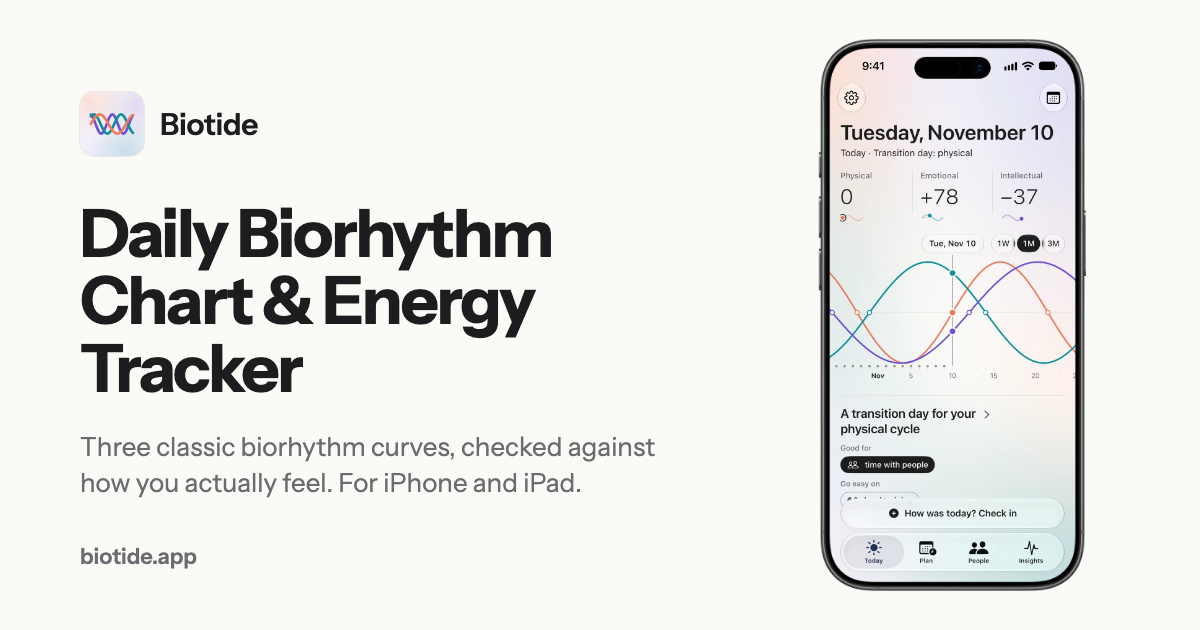
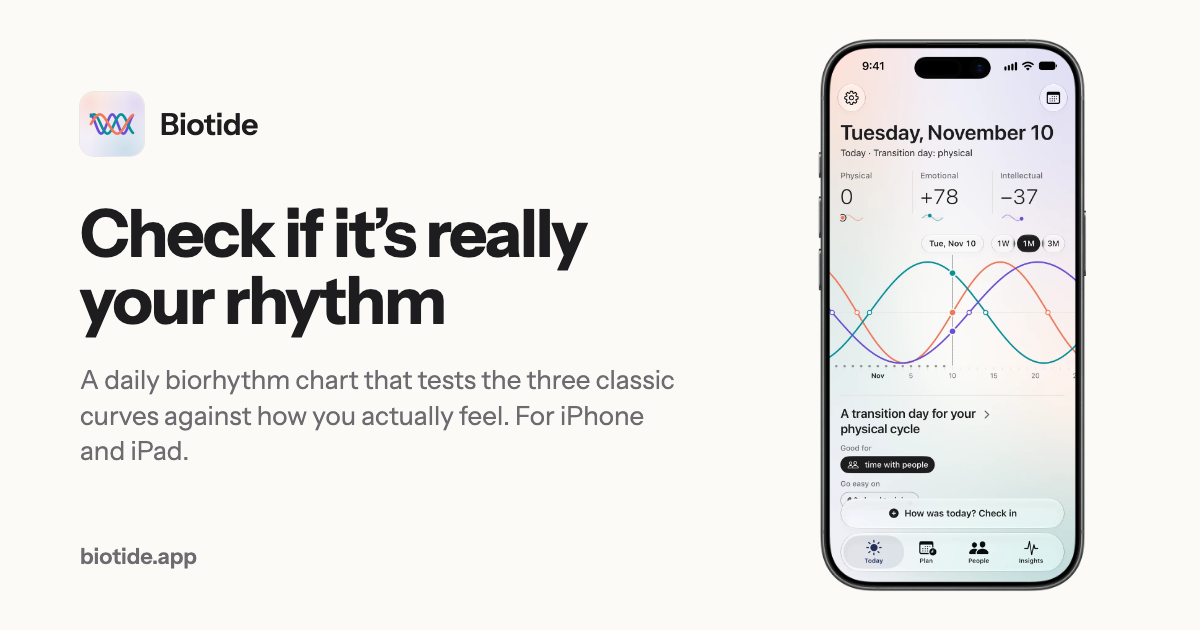
Lead with the check-in test: headline, the difference, FAQ
The hero says what sets Biotide apart (the curves tested against your evening check-ins), with the keyword line kept inside the H1; a short section after the hero, the fit first among the features, a FAQ on how it differs, and the social card re-rendered with the new headline.

Changed region(s): [[0.0617, 0.3317, 0.555, 0.7841]]

diff --git a/index.html b/index.html
@@ -8,7 +8,7 @@
     <meta name="theme-color" content="#0f1217" media="(prefers-color-scheme: dark)">
     <link rel="preload" href="fonts/instrument-sans-latin.woff2" as="font" type="font/woff2" crossorigin>
     <link rel="stylesheet" href="themes/default.css?v=2">
-    <link rel="stylesheet" href="styles.css?v=2">
+    <link rel="stylesheet" href="styles.css?v=3">
     <link rel="stylesheet" href="scrollcraft.css?v=1">
     <link rel="stylesheet" href="landing.css?v=1">
     <!-- Title: under 60 characters, brand + what it is + platform. Add "Official Site" only if other products share the name. -->
@@ -29,7 +29,7 @@
     <meta property="og:image" content="https://biotide.app/images/og-image.png">
     <meta property="og:image:width" content="1200">
     <meta property="og:image:height" content="630">
-    <meta property="og:image:alt" content="Biotide's icon and the headline Daily Biorhythm Chart & Energy Tracker beside an iPhone showing the app's Today screen">
+    <meta property="og:image:alt" content="Biotide's icon and the headline Check if it's really your rhythm beside an iPhone showing the app's Today screen">
     <meta property="og:site_name" content="Biotide">
     <meta property="og:locale" content="en_US">
 
@@ -38,7 +38,7 @@
     <meta name="twitter:title" content="Biotide: Daily Biorhythm Chart & Energy Tracker">
     <meta name="twitter:description" content="A daily biorhythm chart and energy tracker for iPhone and iPad that tests the three cycles against how you feel, with compatibility and best days.">
     <meta name="twitter:image" content="https://biotide.app/images/og-image.png">
-    <meta name="twitter:image:alt" content="Biotide's icon and the headline Daily Biorhythm Chart & Energy Tracker beside an iPhone showing the app's Today screen">
+    <meta name="twitter:image:alt" content="Biotide's icon and the headline Check if it's really your rhythm beside an iPhone showing the app's Today screen">
 
     <!-- Apple Smart App Banner (Safari on iOS shows a native install banner). Remove for a non-App-Store product. -->
     <meta name="apple-itunes-app" content="app-id=6829585627">
@@ -189,6 +189,14 @@
                     },
                     {
                         "@type": "Question",
+                        "name": "How is Biotide different from other biorhythm apps?",
+                        "acceptedAnswer": {
+                            "@type": "Answer",
+                            "text": "Most biorhythm apps draw the curves and tell you how your day will go. Biotide also asks you, with a thirty-second evening check-in of energy, mood, focus and sleep. After 14 check-ins it shows how often each curve matched how you felt, and a curve that doesn't fit you counts for less in your readings and plans, or drops out entirely."
+                        }
+                    },
+                    {
+                        "@type": "Question",
                         "name": "What are critical days in a biorhythm?",
                         "acceptedAnswer": {
                             "@type": "Answer",
@@ -310,8 +318,10 @@
     <section class="hero" aria-labelledby="hero-title">
         <div class="wrap hero-grid">
             <div class="hero-copy">
-                <h1 id="hero-title">Daily Biorhythm Chart &amp; Energy Tracker</h1>
-                <p class="lead">Biotide is a daily biorhythm chart and energy tracker for iPhone and iPad. It draws your three cycles from your birth date, then checks them against how you actually feel, and finds good days for what is coming up, alone or with the people around you.</p>
+                <!-- The keyword line is part of the H1 on purpose: search reads "daily biorhythm chart & energy
+                     tracker" in the main heading, people read the promise. -->
+                <h1 id="hero-title"><span class="hero-kicker">Daily biorhythm chart &amp; energy tracker</span> Check if it&rsquo;s really your rhythm</h1>
+                <p class="lead">Biotide draws your three biorhythm cycles from your birth date, then tests them on you. A thirty-second check-in each evening shows which curves match how you actually feel, and only the ones that fit shape your readings and your best days. For iPhone and iPad.</p>
                 <div class="hero-actions">
                     <a href="https://apps.apple.com/app/id6829585627" class="app-store-badge" aria-label="Download Biotide on the App Store" data-cta="hero"><img src="images/download-on-the-app-store.svg" alt="Download Biotide on the App Store" width="156" height="52"></a>
                     <a class="text-link" href="#how">See how it works</a>
@@ -335,18 +345,28 @@
         </div>
     </section>
 
+    <!-- THE DIFFERENCE: the one thing no other biorhythm app does, stated before the feature list. -->
+    <section class="section" id="different">
+        <div class="wrap">
+            <div class="section-head">
+                <h2>Most biorhythm apps tell you. Biotide asks you.</h2>
+                <p class="lead">The three curves are the theory&rsquo;s guess. Your evening check-ins are the test: energy, mood, focus and sleep, each from 1 to 5. After 14 check-ins Biotide shows how often each curve matched how you felt. A curve that fits keeps its say; one that doesn&rsquo;t counts for less in your readings and plans, and can drop out entirely. With Plus, your sleep and heart signals from Apple Health join the test.</p>
+            </div>
+        </div>
+    </section>
+
     <!-- FEATURES as a definition list: term = the feature, definition = what it does for the user. -->
     <section class="section" id="features">
         <div class="wrap">
             <div class="section-head">
                 <h2>What is in the app</h2>
-                <p>The classic biorhythm calculator and chart, plus the part most biorhythm apps leave out: checking the curves against you.</p>
+                <p>The classic biorhythm calculator and chart, checked against you every evening.</p>
             </div>
             <dl class="methods">
+                <div><dt>Is it really your rhythm?</dt><dd>After 14 check-ins Biotide shows how often each curve matched how you felt. A curve that doesn&rsquo;t fit you counts for less in your readings and plans, and can drop out entirely.</dd></div>
                 <div><dt>Daily biorhythm chart</dt><dd>Physical, emotional and intellectual values for any day, worked out from your birth date. Drag the chart back or forward in time, from a week to three months at a glance.</dd></div>
                 <div><dt>Your day in words</dt><dd>A short reading of what to lean into and what to go easy on, with transition days, the classic &ldquo;critical days&rdquo;, marked before they arrive.</dd></div>
                 <div><dt>Thirty-second check-in</dt><dd>Rate your energy, mood, focus and last night&rsquo;s sleep from 1 to 5 each evening. A gentle reminder helps, and skips the days you have already logged.</dd></div>
-                <div><dt>Do the curves fit you?</dt><dd>After 14 check-ins Biotide shows how often each curve matched how you felt. A curve that doesn&rsquo;t fit you counts for less in your readings and plans, and can drop out entirely.</dd></div>
                 <div><dt>Prime days</dt><dd>Pick what is coming, from an exam or a job interview to a date, a race or an important conversation, and get the best days in the next 30, 60 or 90 days. Already have a date? See how it looks and whether a nearby day is better.</dd></div>
                 <div><dt>Biorhythm compatibility</dt><dd>Add people by birthday or bring them in from Contacts. See how your cycles line up as a match percentage, day by day, with the next good day to talk.</dd></div>
                 <div><dt>Apple Health, with Plus</dt><dd>Sleep, heart rate variability, resting heart rate and breathing rate, compared with your own usual, never with norms. Read only, and it never leaves your device.</dd></div>
@@ -535,6 +555,10 @@
                 <details class="faq-item">
                     <summary>What is a biorhythm?</summary>
                     <p>A biorhythm is one of three cycles that, according to a theory popular since the 1970s, start on the day you were born: physical over 23 days, emotional over 28 days and intellectual over 33 days. Biotide works out all three from your birth date and draws them as a daily biorhythm chart.</p>
+                </details>
+                <details class="faq-item">
+                    <summary>How is Biotide different from other biorhythm apps?</summary>
+                    <p>Most biorhythm apps draw the curves and tell you how your day will go. Biotide also asks you, with a thirty-second evening check-in of energy, mood, focus and sleep. After 14 check-ins it shows how often each curve matched how you felt, and a curve that doesn&rsquo;t fit you counts for less in your readings and plans, or drops out entirely.</p>
                 </details>
                 <details class="faq-item">
                     <summary>What are critical days in a biorhythm?</summary>

diff --git a/privacy.html b/privacy.html
@@ -10,7 +10,7 @@
     <meta name="robots" content="index, follow">
     <link rel="preload" href="fonts/instrument-sans-latin.woff2" as="font" type="font/woff2" crossorigin>
     <link rel="stylesheet" href="themes/default.css?v=2">
-    <link rel="stylesheet" href="styles.css?v=2">
+    <link rel="stylesheet" href="styles.css?v=3">
     <script>try{document.documentElement.dataset.theme=localStorage.getItem('biotide_theme')||'system'}catch(e){document.documentElement.dataset.theme='system'}</script>
     <link rel="canonical" href="https://biotide.app/privacy.html">
     <link rel="alternate" type="text/markdown" href="https://biotide.app/privacy.html.md" title="Markdown version for AI agents">
@@ -24,7 +24,7 @@
     <meta property="og:image" content="https://biotide.app/images/og-image.png">
     <meta property="og:image:width" content="1200">
     <meta property="og:image:height" content="630">
-    <meta property="og:image:alt" content="Biotide's icon and the headline Daily Biorhythm Chart & Energy Tracker beside an iPhone showing the app's Today screen">
+    <meta property="og:image:alt" content="Biotide's icon and the headline Check if it's really your rhythm beside an iPhone showing the app's Today screen">
     <meta name="twitter:card" content="summary_large_image">
 
     <link rel="icon" type="image/png" href="images/favicon.png?v=2" sizes="64x64">

diff --git a/styles.css b/styles.css
@@ -92,6 +92,7 @@ p, li, dd, dt { max-width: 62ch; }
 .hero-grid { display: grid; grid-template-columns: minmax(0, 1.05fr) minmax(0, 0.95fr); gap: 2rem 4rem; align-items: end; }
 .hero-copy { padding: clamp(3rem, 2rem + 4vw, 6rem) 0 clamp(3rem, 2rem + 3vw, 5rem); }
 .hero-copy h1 { max-width: 14ch; }
+.hero-kicker { display: block; margin-bottom: 0.6rem; font: 600 0.875rem/1.4 var(--font-body); letter-spacing: 0.06em; text-transform: uppercase; color: var(--accent-ink); max-width: 40ch; }
 .hero-copy .lead { margin-top: 1.5rem; max-width: 52ch; }
 .hero-actions { display: flex; align-items: center; gap: 1.25rem 1.75rem; flex-wrap: wrap; margin-top: 2rem; }
 .app-store-badge img { height: 52px; width: auto; }

diff --git a/scripts/templates/article.html b/scripts/templates/article.html
@@ -11,7 +11,7 @@
     <meta name="robots" content="index, follow">
     <link rel="preload" href="fonts/instrument-sans-latin.woff2" as="font" type="font/woff2" crossorigin>
     <link rel="stylesheet" href="themes/default.css?v=2">
-    <link rel="stylesheet" href="styles.css?v=2">
+    <link rel="stylesheet" href="styles.css?v=3">
     <script>try{document.documentElement.dataset.theme=localStorage.getItem('biotide_theme')||'system'}catch(e){document.documentElement.dataset.theme='system'}</script>
     <link rel="canonical" href="https://biotide.app/{{SLUG}}.html">
     <link rel="alternate" type="text/markdown" href="https://biotide.app/{{SLUG}}.html.md" title="Markdown version for AI agents">

diff --git a/404.html b/404.html
@@ -10,7 +10,7 @@
     <link rel="preload" href="/fonts/instrument-sans-latin.woff2" as="font" type="font/woff2" crossorigin>
     <!-- Absolute paths: a 404 can be served at any depth. -->
     <link rel="stylesheet" href="/themes/default.css?v=2">
-    <link rel="stylesheet" href="/styles.css?v=2">
+    <link rel="stylesheet" href="/styles.css?v=3">
     <script>try{document.documentElement.dataset.theme=localStorage.getItem('biotide_theme')||'system'}catch(e){document.documentElement.dataset.theme='system'}</script>
     <link rel="icon" type="image/png" href="/images/favicon.png?v=2" sizes="64x64">
     <link rel="apple-touch-icon" href="/images/apple-touch-icon.png?v=2" sizes="180x180">

diff --git a/tools/og-image.html b/tools/og-image.html
@@ -32,8 +32,8 @@
 <body>
 <div class="text">
     <div class="brand"><img src="../images/logo.png" alt="">Biotide</div>
-    <h1>Daily Biorhythm Chart & Energy Tracker</h1>
-    <p>Three classic biorhythm curves, checked against how you actually feel. For iPhone and iPad.</p>
+    <h1>Check if it’s really your rhythm</h1>
+    <p>A daily biorhythm chart that tests the three classic curves against how you actually feel. For iPhone and iPad.</p>
 </div>
 <div class="url">biotide.app</div>
 <div class="phone">

diff --git a/index.html.md b/index.html.md
@@ -2,9 +2,9 @@
 
 > **Markdown version** of [https://biotide.app/](https://biotide.app/) — a clean, agent-friendly mirror of the HTML page.
 
-# Daily Biorhythm Chart & Energy Tracker
+# Daily biorhythm chart & energy tracker Check if it’s really your rhythm
 
-Biotide is a daily biorhythm chart and energy tracker for iPhone and iPad. It draws your three cycles from your birth date, then checks them against how you actually feel, and finds good days for what is coming up, alone or with the people around you.
+Biotide draws your three biorhythm cycles from your birth date, then tests them on you. A thirty-second check-in each evening shows which curves match how you actually feel, and only the ones that fit shape your readings and your best days. For iPhone and iPad.
 
 [![Download Biotide on the App Store](https://biotide.app/images/download-on-the-app-store.svg)](https://apps.apple.com/app/id6829585627)
 [See how it works](#how)
@@ -18,9 +18,16 @@ For reflection and planning. Biorhythms are not proven science or medical advice
 
 ![Biotide's daily biorhythm chart for Tuesday, November 10: physical 0, emotional +78, intellectual −37, the three curves across the month, and the day in words: a transition day for the physical cycle, good for time with people](https://biotide.app/images/screen-today.webp?v=1)
 
+## Most biorhythm apps tell you. Biotide asks you.
+
+The three curves are the theory’s guess. Your evening check-ins are the test: energy, mood, focus and sleep, each from 1 to 5. After 14 check-ins Biotide shows how often each curve matched how you felt. A curve that fits keeps its say; one that doesn’t counts for less in your readings and plans, and can drop out entirely. With Plus, your sleep and heart signals from Apple Health join the test.
+
 ## What is in the app
 
-The classic biorhythm calculator and chart, plus the part most biorhythm apps leave out: checking the curves against you.
+The classic biorhythm calculator and chart, checked against you every evening.
+
+Is it really your rhythm?
+:   After 14 check-ins Biotide shows how often each curve matched how you felt. A curve that doesn’t fit you counts for less in your readings and plans, and can drop out entirely.
 
 Daily biorhythm chart
 :   Physical, emotional and intellectual values for any day, worked out from your birth date. Drag the chart back or forward in time, from a week to three months at a glance.
@@ -30,9 +37,6 @@ Your day in words
 
 Thirty-second check-in
 :   Rate your energy, mood, focus and last night’s sleep from 1 to 5 each evening. A gentle reminder helps, and skips the days you have already logged.
-
-Do the curves fit you?
-:   After 14 check-ins Biotide shows how often each curve matched how you felt. A curve that doesn’t fit you counts for less in your readings and plans, and can drop out entirely.
 
 Prime days
 :   Pick what is coming, from an exam or a job interview to a date, a race or an important conversation, and get the best days in the next 30, 60 or 90 days. Already have a date? See how it looks and whether a nearby day is better.
@@ -147,6 +151,10 @@ The science
 ### What is a biorhythm?
 
 A biorhythm is one of three cycles that, according to a theory popular since the 1970s, start on the day you were born: physical over 23 days, emotional over 28 days and intellectual over 33 days. Biotide works out all three from your birth date and draws them as a daily biorhythm chart.
+
+### How is Biotide different from other biorhythm apps?
+
+Most biorhythm apps draw the curves and tell you how your day will go. Biotide also asks you, with a thirty-second evening check-in of energy, mood, focus and sleep. After 14 check-ins it shows how often each curve matched how you felt, and a curve that doesn’t fit you counts for less in your readings and plans, or drops out entirely.
 
 ### What are critical days in a biorhythm?
 
